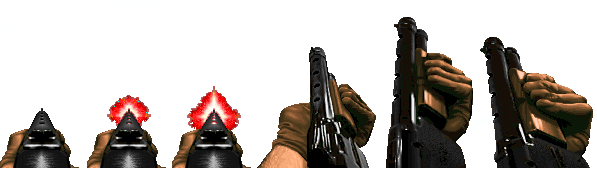
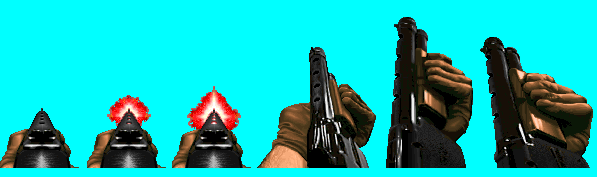
corrected gun transparency

diff --git a/src/com/nowicki/raycaster/engine/Engine.java b/src/com/nowicki/raycaster/engine/Engine.java
@@ -38,7 +38,7 @@ public class Engine {
 			if (camera.isPlayerMoving()) {
 				movement += 0.2;
 				verticalDisplace = (int) (height * Settings.WALKING_EFFECT_SCALE * Math.sin(movement));
-				gunVerticalDisplace = (int) (4 * Math.sin(movement));
+				gunVerticalDisplace = (int) (2 * Math.sin(movement));
 				gunHorizontalDisplace = (int) (8 * Math.cos(movement));
 			}
 		}
@@ -229,13 +229,14 @@ public class Engine {
 		int[] gunPixels = weapon.getFrame();
 		
 		int startX = ((width - gunImageWidth) / 2) + gunHorizontalDisplace; 
-		int startY = (height - gunImageHeight + 5) + gunVerticalDisplace;
+		int startY = (height - gunImageHeight + 10) + gunVerticalDisplace;
 		int u = 0;
 		int v = 0;
+		
 		for (int y=startY; y<height; y++) {
 			for (int x=startX; x<(startX+gunImageWidth); x++) {
 				int pixel = gunPixels[v*gunImageWidth+u];
-				if (pixel != 65535) {
+				if (pixel != -16711681) { // TODO brute-force transparency
 					buffer[y*width+x] = pixel;
 				}
 				u++;

diff --git a/src/com/nowicki/raycaster/engine/Weapon.java b/src/com/nowicki/raycaster/engine/Weapon.java
@@ -34,14 +34,18 @@ public class Weapon {
 	}
 	
 	public int[] getFrame() {
-		return pixels[currentFrame];
+		return pixels[frameSequence[currentFrame]];
 	}
 	
 	public int getFrameWidth() {
-		return framesWidth[currentFrame];
+		return framesWidth[frameSequence[currentFrame]];
 	}
 
 	public int getFrameHeight() {
 		return frameHeight;
+	}
+	
+	public void nextFrame() {
+		currentFrame = (currentFrame != frameSequence.length - 1) ? currentFrame++ : 0;
 	}
 }
